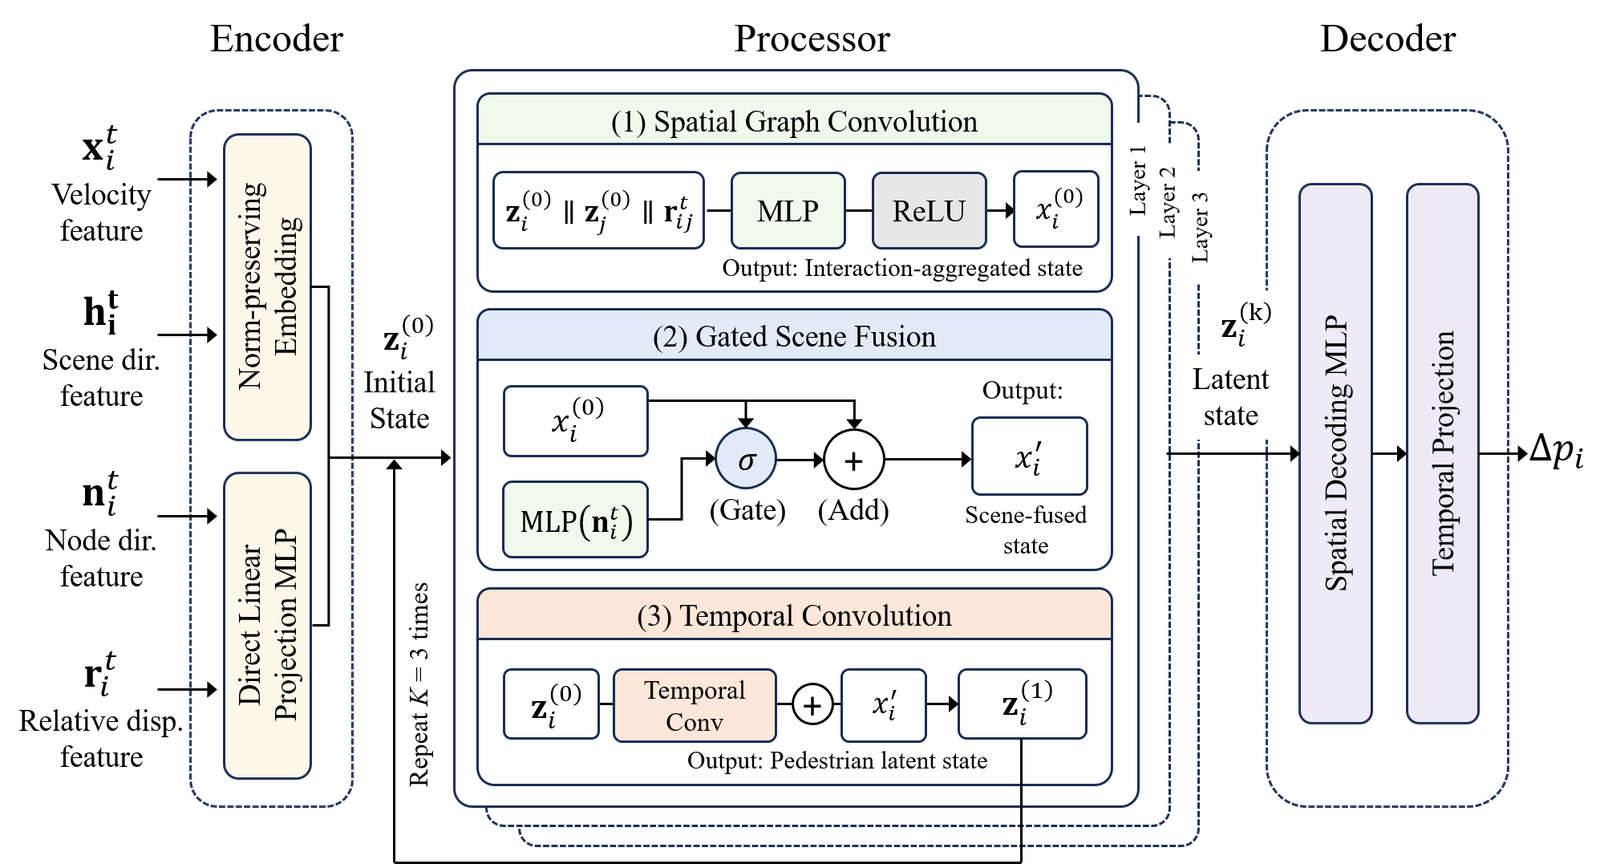
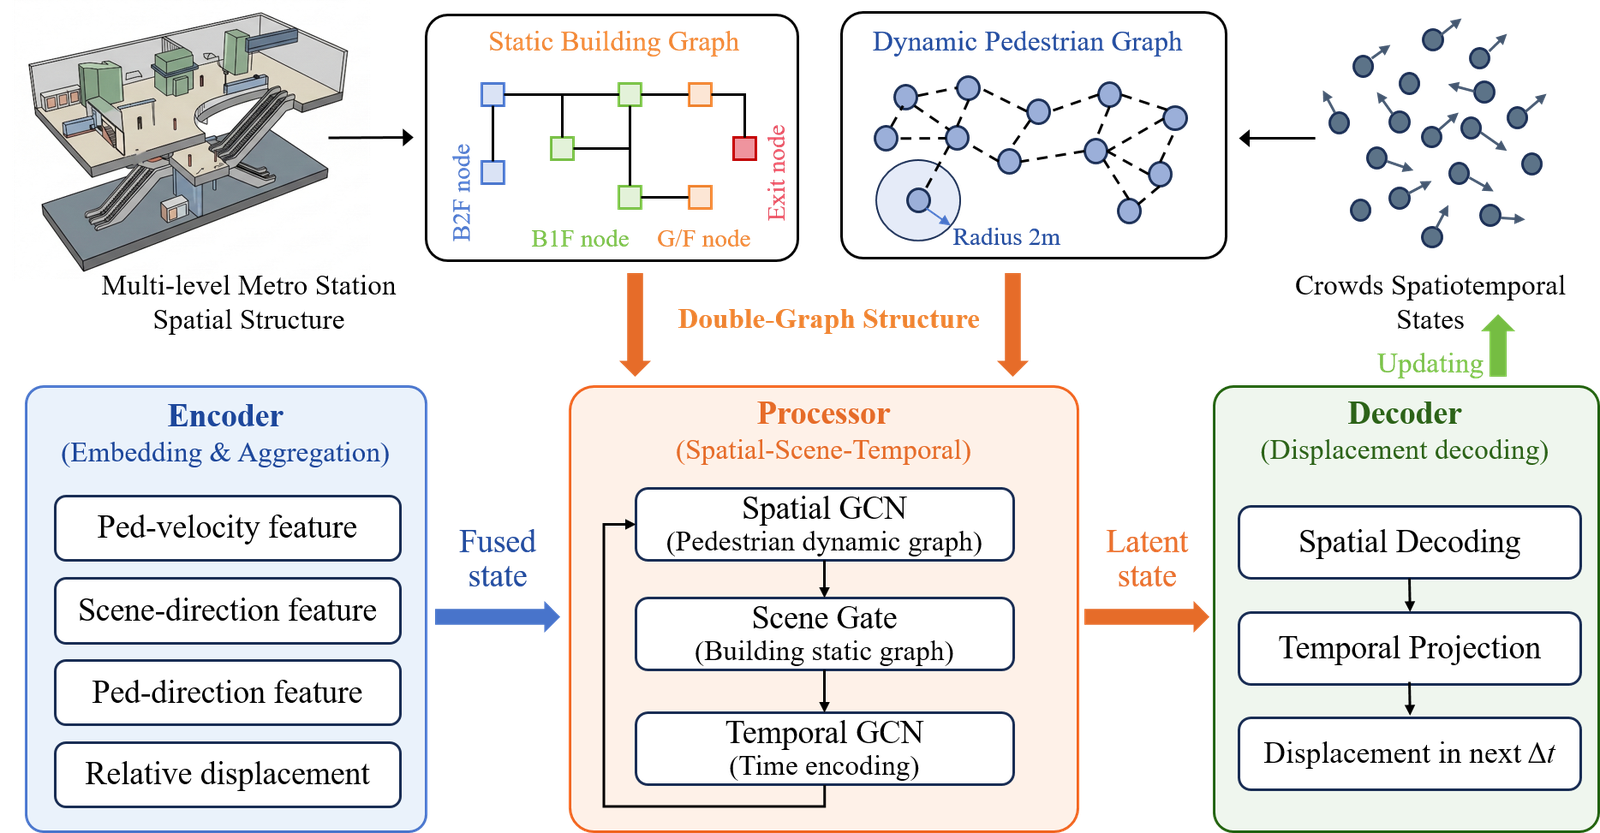
P6 GNN: redesign page — 0.png teaser, network.png below abstract, video mid-frame posters, scene1/2 grouping, Figures section

Changed region(s): [[0.0, 0.0, 1.0, 1.0]]

diff --git a/papers/p6-gnn/index.html b/papers/p6-gnn/index.html
@@ -13,6 +13,7 @@
     <ul class="nav-links">
       <li><a href="#abstract">Abstract</a></li>
       <li><a href="#videos">Videos</a></li>
+      <li><a href="#figures">Figures</a></li>
       <li><a href="#bibtex">BibTeX</a></li>
     </ul>
   </div>
@@ -40,6 +41,7 @@
     <img src="teaser.png" alt="Spatiotemporal GNN interaction graph">
     <p class="teaser-caption"><strong>Fig. 1.</strong> A spatiotemporal graph neural network abstracts evacuees and the built environment into a unified interaction graph, encoding inter-pedestrian social forces and vertical boundary constraints via dynamic and static adjacency matrices.</p>
   </div>
+
 </div>
 
 <section id="abstract">
@@ -73,31 +75,53 @@
       <div class="card-body">Generalizes to an unseen station with reversed vertical evacuation direction.</div>
     </div>
   </div>
+  <div class="figure">
+    <img src="fig-network.png" alt="Spatiotemporal GNN network architecture">
+    <p class="fig-note">The spatiotemporal GNN encoder-processor-decoder architecture for unified pedestrian-environment interaction modelling.</p>
+  </div>
 </section>
 
 <section id="videos">
   <h2 class="section-title">Demo Videos</h2>
-  <div class="videos-grid">
+
+  <p style="font-size:.9rem;color:#374151;margin-bottom:1.25rem;font-weight:600;">Metro Scene 1</p>
+  <div class="videos-grid" style="margin-bottom:2.5rem">
     <div class="video-card">
-      <div class="video-label"><span class="video-badge">V1</span><span class="video-title-text">GNN Evacuation Rollout</span></div>
-      <video controls preload="metadata" poster="fig-overview.png"><source src="v1.mp4" type="video/mp4">Your browser does not support the video tag.</video>
-      <p class="fig-note">Continuous microscopic rollout of pedestrian dynamics predicted by the spatiotemporal GNN.</p>
+      <div class="video-label"><span class="video-badge">V1</span><span class="video-title-text">Microscopic Rollout</span></div>
+      <video controls preload="metadata" poster="poster-v1.jpg"><source src="v1.mp4" type="video/mp4">Your browser does not support the video tag.</video>
     </div>
     <div class="video-card">
       <div class="video-label"><span class="video-badge">V2</span><span class="video-title-text">Density &amp; Flow Evolution</span></div>
-      <video controls preload="metadata" poster="fig1.png"><source src="v2.mp4" type="video/mp4">Your browser does not support the video tag.</video>
-      <p class="fig-note">Predicted flow distributions and density evolution across multi-level layouts.</p>
+      <video controls preload="metadata" poster="poster-v2.jpg"><source src="v2.mp4" type="video/mp4">Your browser does not support the video tag.</video>
+    </div>
+  </div>
+
+  <p style="font-size:.9rem;color:#374151;margin-bottom:1.25rem;font-weight:600;">Metro Scene 2</p>
+  <div class="videos-grid">
+    <div class="video-card">
+      <div class="video-label"><span class="video-badge">V3</span><span class="video-title-text">Microscopic Rollout</span></div>
+      <video controls preload="metadata" poster="poster-v3.jpg"><source src="v3.mp4" type="video/mp4">Your browser does not support the video tag.</video>
     </div>
     <div class="video-card">
-      <div class="video-label"><span class="video-badge">V3</span><span class="video-title-text">Congestion Mapping</span></div>
-      <video controls preload="metadata" poster="fig2.png"><source src="v3.mp4" type="video/mp4">Your browser does not support the video tag.</video>
-      <p class="fig-note">High-fidelity congestion maps supporting rapid dynamic risk assessment.</p>
+      <div class="video-label"><span class="video-badge">V4</span><span class="video-title-text">Density &amp; Flow Evolution</span></div>
+      <video controls preload="metadata" poster="poster-v4.jpg"><source src="v4.mp4" type="video/mp4">Your browser does not support the video tag.</video>
     </div>
-    <div class="video-card">
-      <div class="video-label"><span class="video-badge">V4</span><span class="video-title-text">Cross-Layout Generalization</span></div>
-      <video controls preload="metadata" poster="fig3.png"><source src="v4.mp4" type="video/mp4">Your browser does not support the video tag.</video>
-      <p class="fig-note">Generalization to a previously unseen station configuration with reversed evacuation direction.</p>
-    </div>
+  </div>
+</section>
+
+<section id="figures">
+  <h2 class="section-title">Figures</h2>
+  <div class="figure">
+    <img src="scene1.png" alt="Metro Scene 1">
+    <p class="fig-note">Metro Scene 1 — multi-level underground station layout used in Video 1 &amp; 2.</p>
+  </div>
+  <div class="figure">
+    <img src="fig-adjacency.png" alt="Connection edges definition and adjacency matrix construction">
+    <p class="fig-note">Connection edges definition and adjacency matrix construction.</p>
+  </div>
+  <div class="figure">
+    <img src="scene2.png" alt="Metro Scene 2">
+    <p class="fig-note">Metro Scene 2 — multi-level underground station layout used in Video 3 &amp; 4.</p>
   </div>
 </section>
 
